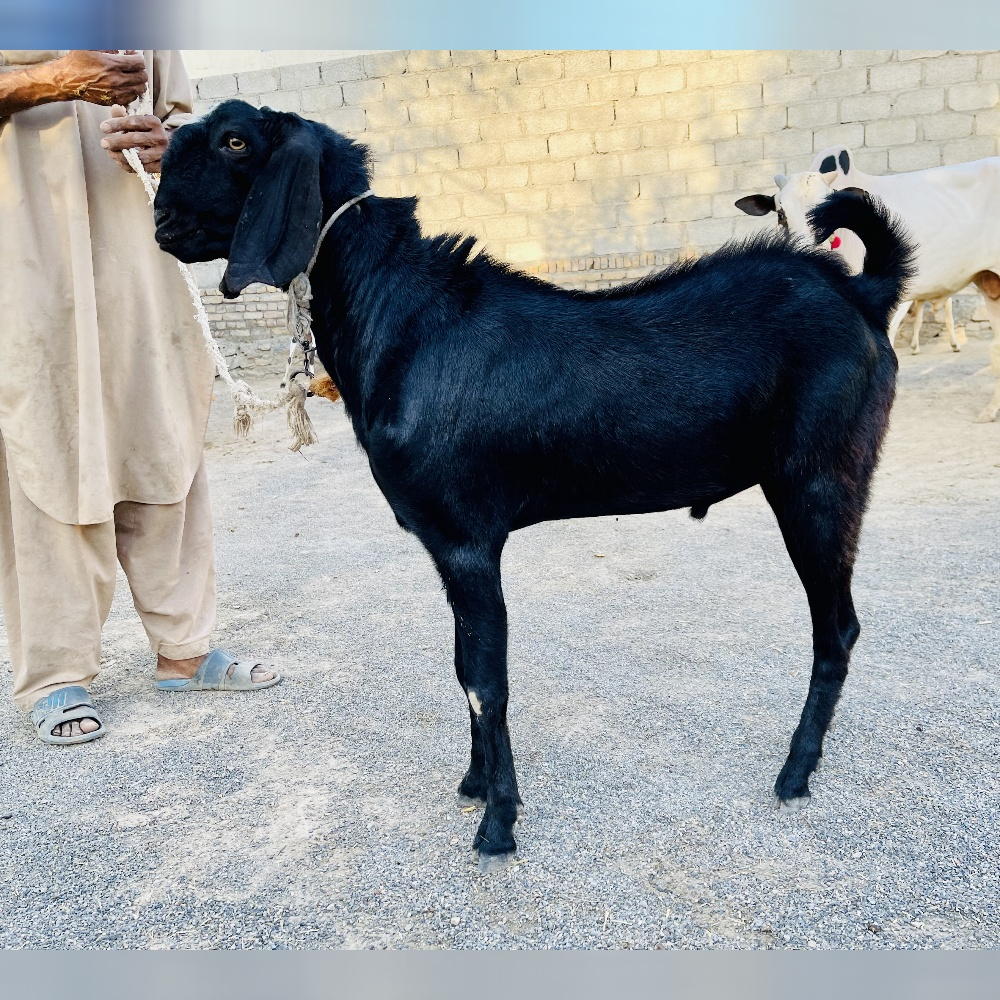
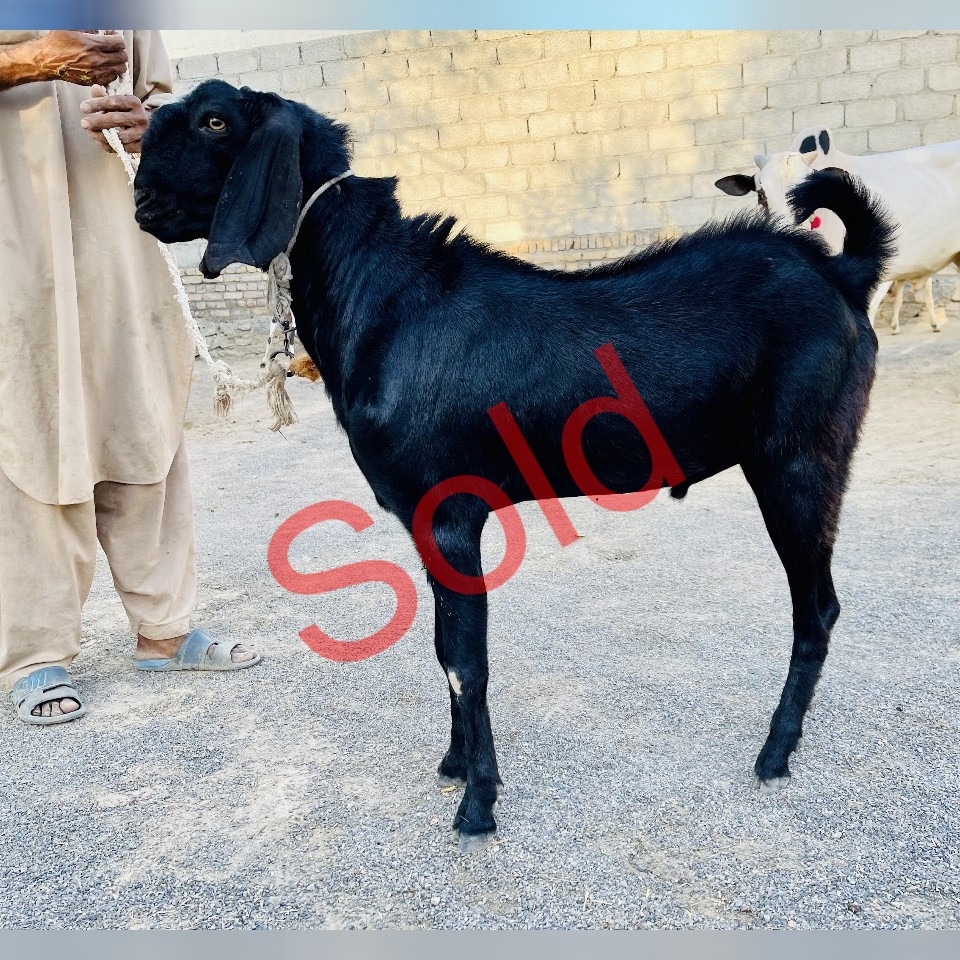
knight sold

diff --git a/components/catalogus.tsx b/components/catalogus.tsx
@@ -40,7 +40,7 @@ const bulls = [
   },
   {
     code: "B04",
-    show_price : "false",
+    show_price : "true",
     availability: "In stock",
     breed: "Desi cross",
     category: "Bull",
@@ -53,7 +53,7 @@ const bulls = [
   },
   {
     code: "B05",
-    show_price : "false",
+    show_price : "true",
     availability: "In stock",
     breed: "Sahiwal",
     category: "Bull",
@@ -66,7 +66,7 @@ const bulls = [
   },
   {
     code: "B06",
-    show_price : "false",
+    show_price : "true",
     availability: "In stock",
     breed: "Sahiwal",
     category: "Bull",
@@ -79,7 +79,7 @@ const bulls = [
   },
   {
     code: "B07",
-    show_price : "false",
+    show_price : "true",
     availability: "In stock",
     breed: "Sahiwal",
     category: "Bull",
@@ -92,7 +92,7 @@ const bulls = [
   },
   {
     code: "B08",
-    show_price : "false",
+    show_price : "true",
     availability: "In stock",
     breed: "Sahiwal",
     category: "Bull",
@@ -147,14 +147,14 @@ const goats = [
   },
   {
     code: "G04",
-    show_price : "false",
+    show_price : "true",
     availability: "In stock",
     breed: "Makhi Cheena",
     category: "Goat",
     imageUrl: "/assets/img/catalogue/goats/104.jpg",
     color: "White cheena",
     addOns: "Delivery, Shelter",
-    price: 69000,
+    price: 68000,
     currentWeight: 63,
     expectedWeight: 67,
   },
@@ -173,14 +173,14 @@ const goats = [
   },
   {
     code: "G06",
-    show_price : "false",
+    show_price : "true",
     availability: "In stock",
     breed: "Makhi Cheena",
     category: "Goat",
     imageUrl: "/assets/img/catalogue/goats/106.jpg",
     color: "Brown Cheena",
     addOns: "Delivery, Shelter",
-    price: 69000,
+    price: 68000,
     currentWeight: 62,
     expectedWeight: 67,
   },
@@ -225,8 +225,8 @@ const goats = [
   },
   {
     code: "G10",
-    show_price : "false",
-    availability: "In stock",
+    show_price : "true",
+    availability: "Sold",
     breed: "Desi",
     category: "Goat",
     imageUrl: "/assets/img/catalogue/goats/110.jpg",
@@ -238,7 +238,7 @@ const goats = [
   },
   {
     code: "G11",
-    show_price : "false",
+    show_price : "true",
     availability: "In stock",
     breed: "Makhi Cheena",
     category: "Goat",
@@ -251,7 +251,7 @@ const goats = [
   },
   {
     code: "G12",
-    show_price : "false",
+    show_price : "true",
     availability: "In stock",
     breed: "Makhi Cheena",
     category: "Goat",
@@ -264,7 +264,7 @@ const goats = [
   },
   {
     code: "G13",
-    show_price : "false",
+    show_price : "true",
     availability: "In stock",
     breed: "Desi",
     category: "Goat",
